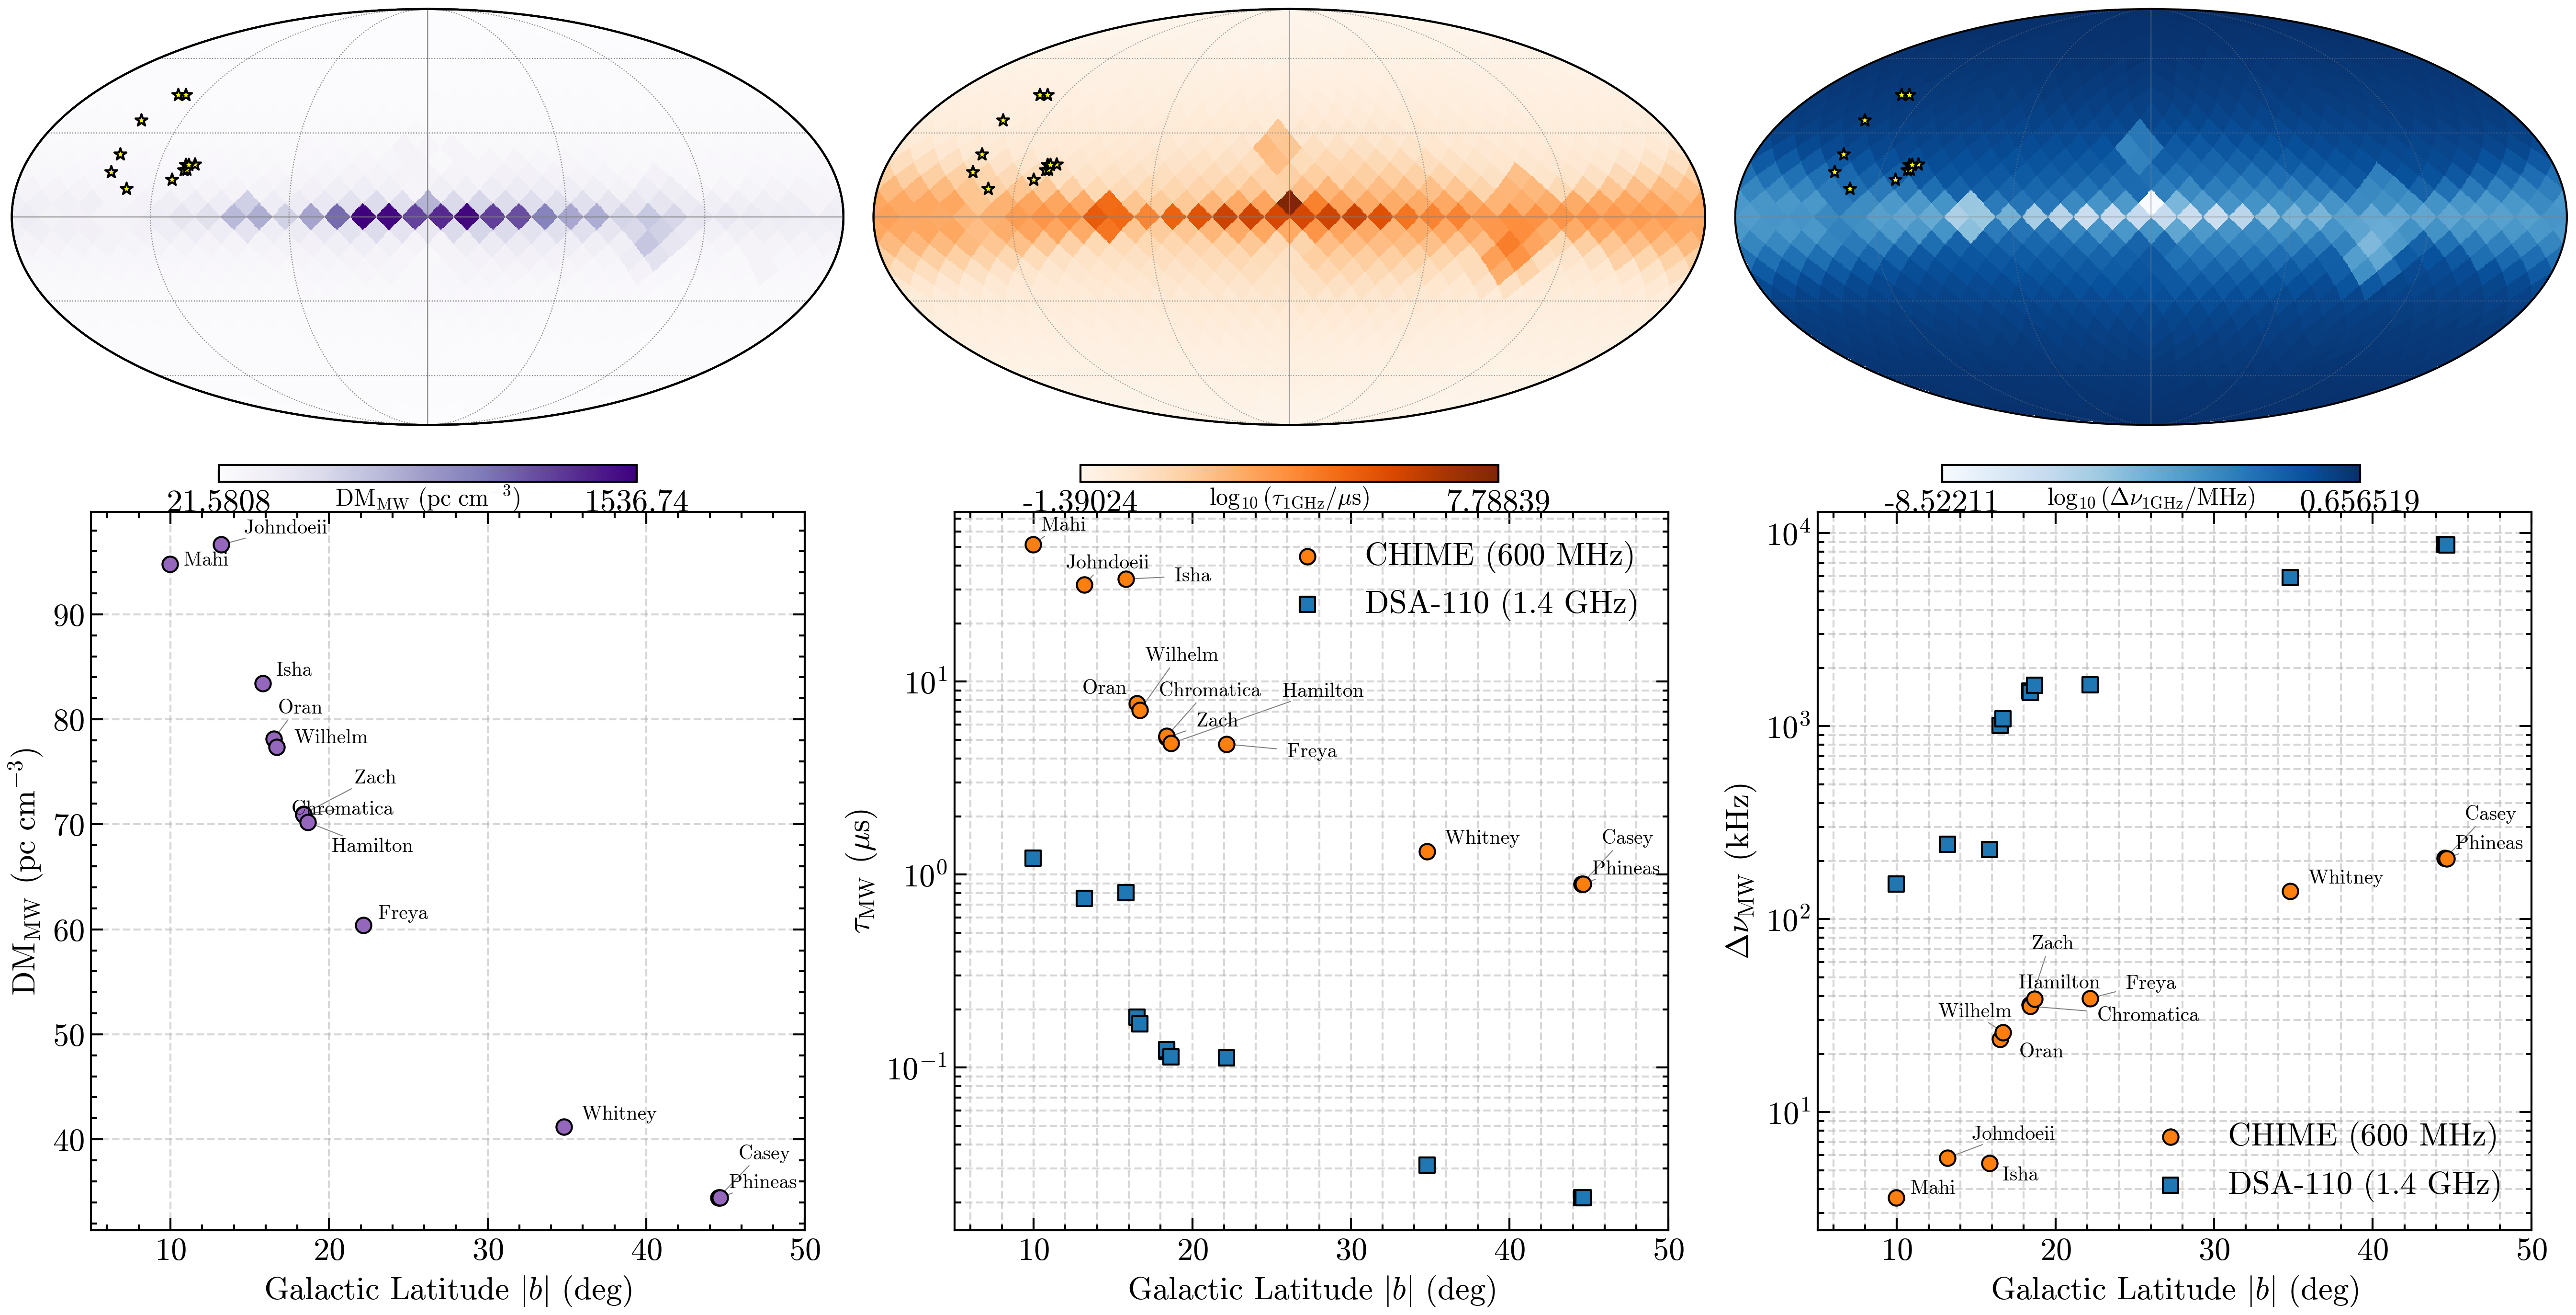
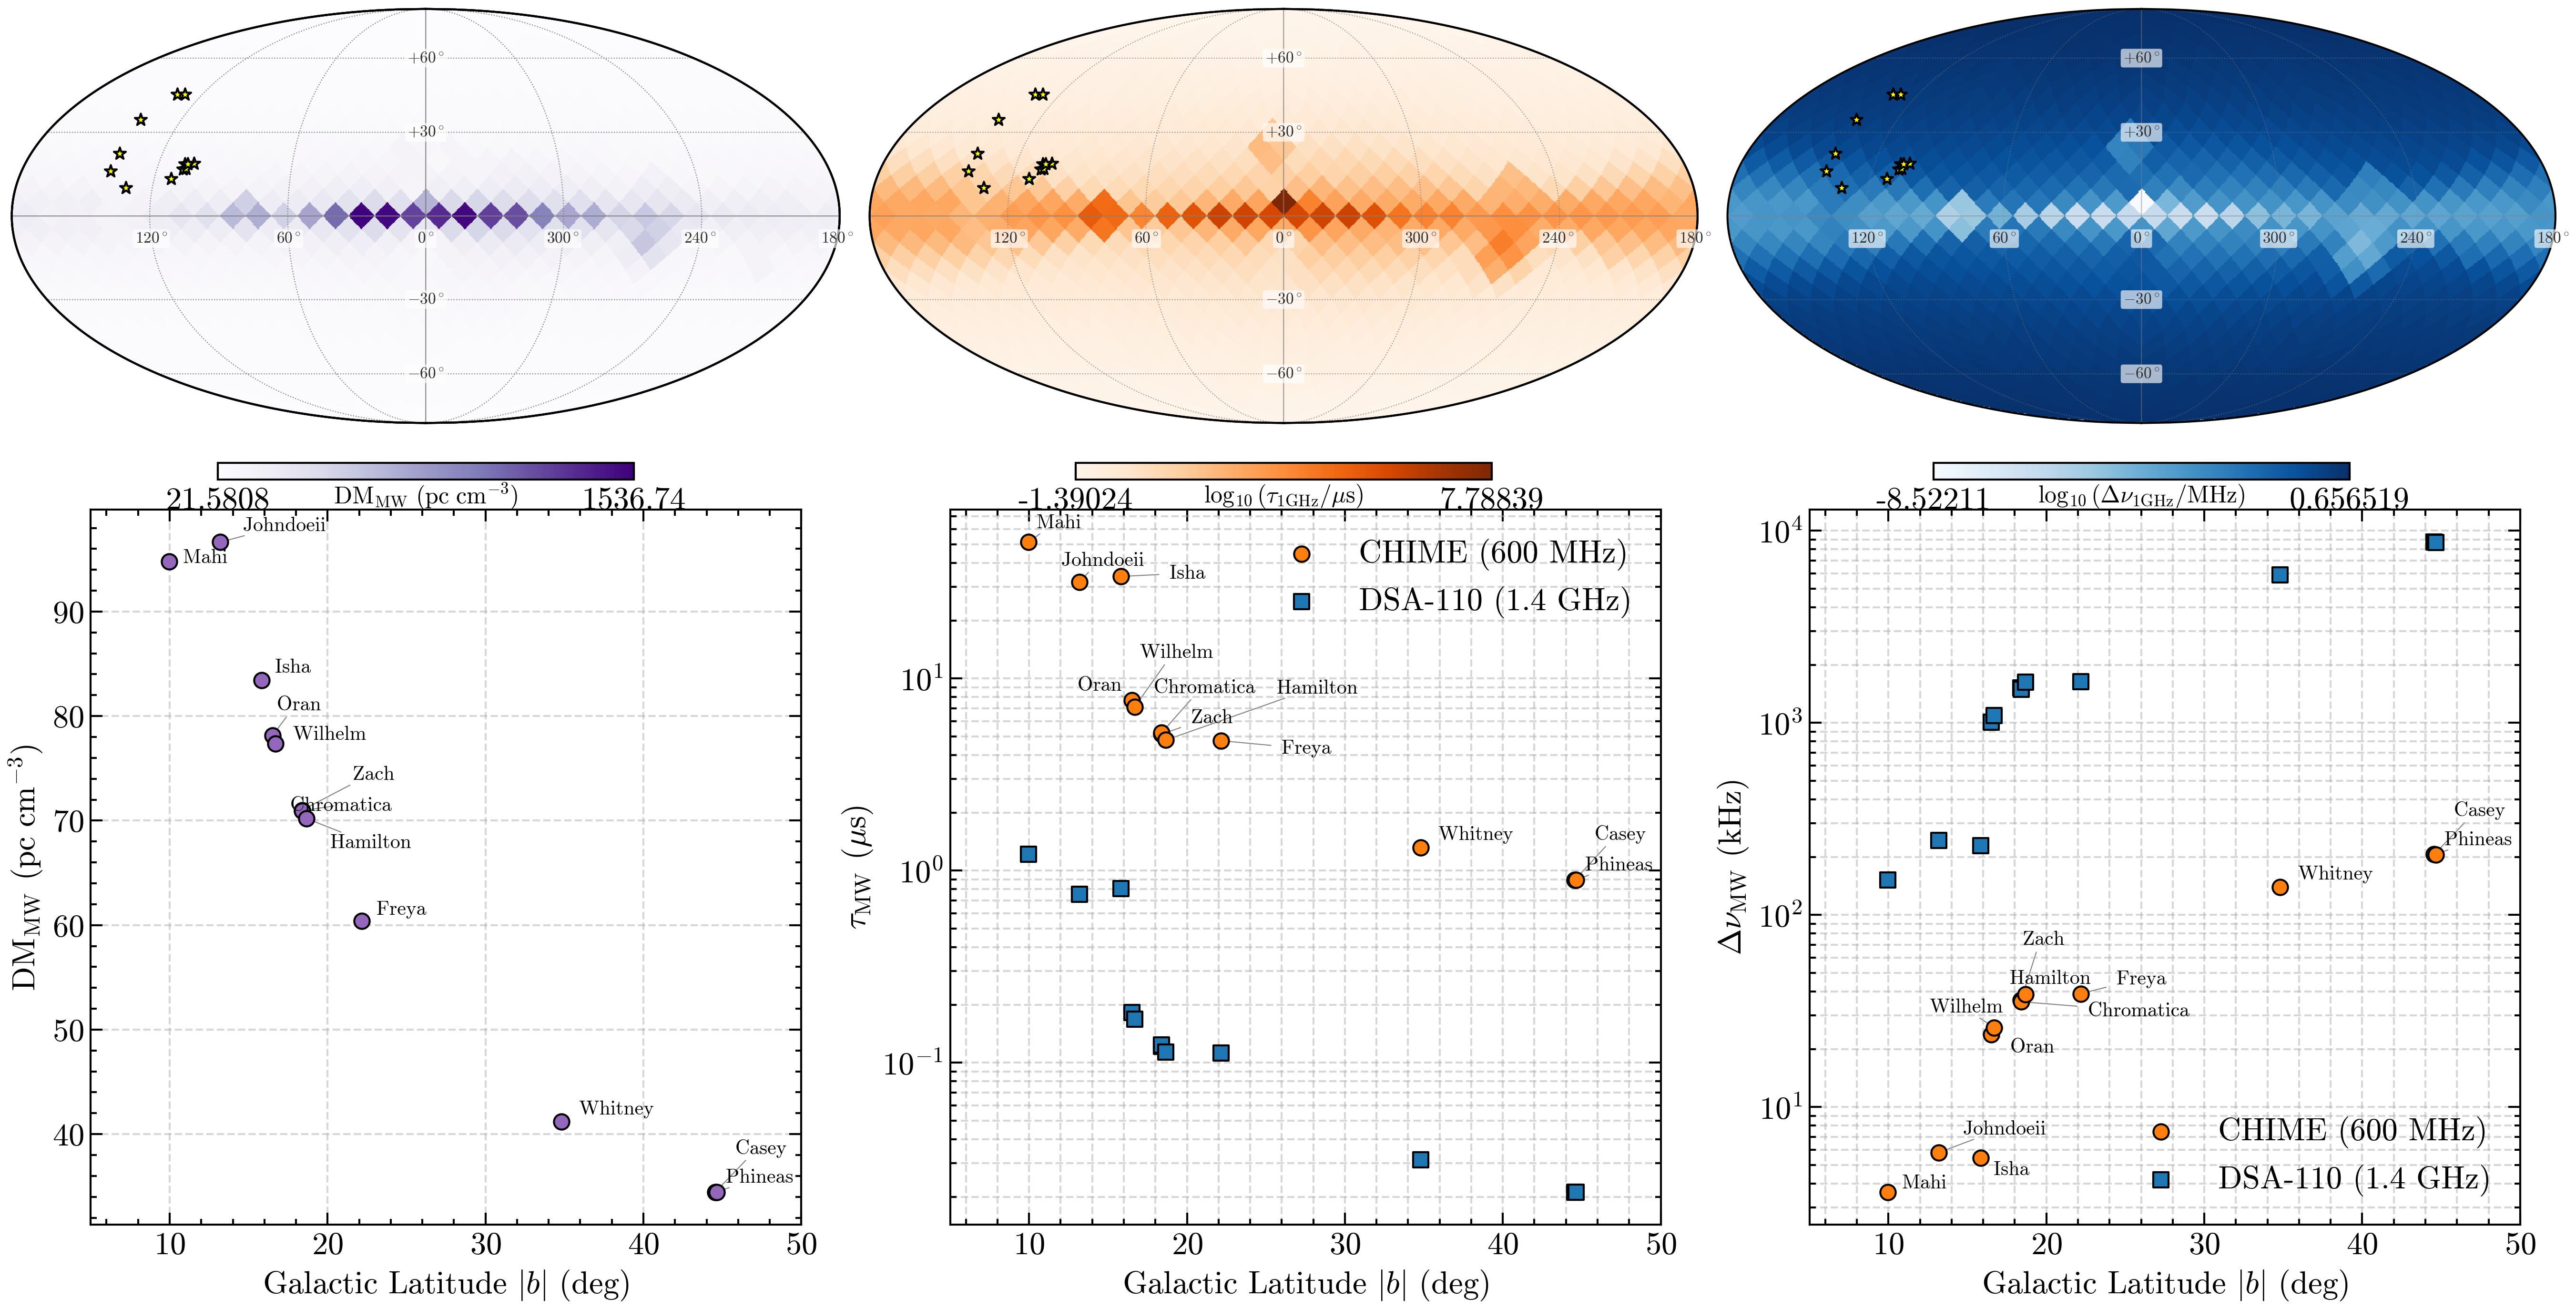
fig: label NE2025 Mollweide maps

diff --git a/docs/rse/board/readiness.html b/docs/rse/board/readiness.html
@@ -228,6 +228,18 @@
 <div class="card">
 <!-- JOURNAL:BEGIN -->
 <ul class="journal">
+<li><span class="jts mono">07-07 08:06</span><span class="jagent">codex-gpt-5.5/Faber2026-codex</span><span class="jlane">repo</span><span class="jnote s-good">Added sparse degree labels to NE2025 all-sky Mollweide maps, regenerated figures, and copied PNG to Antigravity brain path.</span></li>
+<li><span class="jts mono">07-07 08:05</span><span class="jagent">codex-gpt-5.5/Faber2026-codex</span><span class="jlane">repo</span><span class="jnote s-now">User requested commit and push of everything not already on remote; inventorying parent, canonical FLITS, and pipeline submodule before staging.</span></li>
+<li><span class="jts mono">07-07 08:02</span><span class="jagent">codex-gpt-5.5/dm-power-2026-07-07</span><span class="jlane">V6</span><span class="jnote s-now">switching fine-grid DM-power regeneration from local machine to h17 after local run was interrupted</span></li>
+<li><span class="jts mono">07-07 08:02</span><span class="jagent">codex-gpt-5.5/Faber2026-codex</span><span class="jlane">repo</span><span class="jnote s-ready">First ne2025 MW plot regeneration attempt used flits env but hit 300s timeout before saving; rerunning with longer timeout.</span></li>
+<li><span class="jts mono">07-07 07:58</span><span class="jagent">codex-gpt-5.5/Faber2026-codex</span><span class="jlane">V·P0</span><span class="jnote s-good">Pushed dsa110-FLITS commit a78d64dc to origin/main with DR9 photo-z prototype, replay aggregator, docs, and tests; parent Faber2026 still has unrelated dirty manuscript/log/pipeline/NE2025 paths classified in /tmp/faber2026-closeout-packet-20260707-foreground.json.</span></li>
+<li><span class="jts mono">07-07 07:55</span><span class="jagent">codex-gpt-5.5/dm-power-2026-07-07</span><span class="jlane">V6</span><span class="jnote s-now">addressing DM-power concerns: coarse trial spacing and missing error estimate for diagnostic curve maxima</span></li>
+<li><span class="jts mono">07-07 07:54</span><span class="jagent">codex-gpt-5.5/Faber2026-codex</span><span class="jlane">repo</span><span class="jnote s-now">Starting all-sky Mollweide degree-label update for ne2025 MW properties script.</span></li>
+<li><span class="jts mono">07-07 07:54</span><span class="jagent">cursor-composer</span><span class="jlane">repo</span><span class="jnote s-now">Dispatch Fable 5 band-label design review for codetection figures</span></li>
+<li><span class="jts mono">07-07 07:53</span><span class="jagent">codex-gpt-5.5/Faber2026-codex</span><span class="jlane">V·P0</span><span class="jnote s-ready">Implemented opt-in FLITS DR9 9.1 photo-z sweep engine plus replay aggregation script/tests in canonical dsa110-FLITS clone; focused pytest and ruff passed before closeout.</span></li>
+<li><span class="jts mono">07-07 07:52</span><span class="jagent">codex-gpt-5.5/Faber2026-codex</span><span class="jlane">V·P0</span><span class="jnote s-ready">FLITS replay aggregation produced 12-sightline combined outputs under dsa110-FLITS scratch/revalidation-foreground-20260707/combined; current DR8 replay has 21 candidates and only 1 &lt;=10 arcsec match to current 49-row registry.</span></li>
+<li><span class="jts mono">07-07 07:50</span><span class="jagent">cursor-composer/codetection-fix</span><span class="jlane">ms</span><span class="jnote s-good">Hatch zorder below inward ticks on waterfall/spectrum panels; regen 12/12</span></li>
+<li><span class="jts mono">07-07 07:46</span><span class="jagent">codex-gpt-5.5/Faber2026-codex</span><span class="jlane">V·P0</span><span class="jnote s-now">Resuming from handoff /var/folders/8s/v8lmbgcx6d73pbwjmbf198d80000gn/T/Faber2026-handoff-2026-07-07.md; checking foreground live search and dirty state before new edits.</span></li>
 <li><span class="jts mono">07-07 07:45</span><span class="jagent">antigravity-gemini/session-2026-07-07</span><span class="jlane">repo</span><span class="jnote s-good">added graticule coordinate grid lines to all-sky maps</span></li>
 <li><span class="jts mono">07-07 07:43</span><span class="jagent">codex-gpt-5.5/dm-power-2026-07-07</span><span class="jlane">V6</span><span class="jnote s-good">moved regenerated DM-power contact sheet into docs/rse/specs/dm-power-contact-sheet.png</span></li>
 <li><span class="jts mono">07-07 07:42</span><span class="jagent">codex-gpt-5.5/dm-power-2026-07-07</span><span class="jlane">V6</span><span class="jnote s-now">moving DM-power contact sheet from /tmp into repo artifact path</span></li>
@@ -236,18 +248,6 @@
 <li><span class="jts mono">07-07 07:39</span><span class="jagent">codex-gpt-5.5/dm-power-2026-07-07</span><span class="jlane">V6</span><span class="jnote s-good">fixed DM-power figure marker bug: dotted lines now mark the plotted global score-curve maximum; per-bin candidate retained separately</span></li>
 <li><span class="jts mono">07-07 07:36</span><span class="jagent">codex-gpt-5.5/dm-power-2026-07-07</span><span class="jlane">V6</span><span class="jnote s-now">fixing DM-power figure bug: dotted diagnostic line was per-bin candidate, not maximum of plotted global score curve</span></li>
 <li><span class="jts mono">07-07 07:32</span><span class="jagent">codex-gpt-5.5/dm-power-2026-07-07</span><span class="jlane">V6</span><span class="jnote s-ready">showing regenerated DM-power diagnostic candidate figures; graphify-out files confirmed user-generated</span></li>
-<li><span class="jts mono">07-07 07:31</span><span class="jagent">antigravity-gemini/session-2026-07-07</span><span class="jlane">repo</span><span class="jnote s-good">updated specs and artifacts with 2x3 visualization maps and captions</span></li>
-<li><span class="jts mono">07-07 07:30</span><span class="jagent">cursor-composer/codetection-fix</span><span class="jlane">ms</span><span class="jnote s-good">TOA cube-frame shift verified 12/12 peak_diff=measured_offset_ms; NaN colormap fix; prototypes regen</span></li>
-<li><span class="jts mono">07-07 07:28</span><span class="jagent">codex-gpt-5.5/dm-power-2026-07-07</span><span class="jlane">V6</span><span class="jnote s-good">fixed DM-power artifact semantics: removed misleading accepted/unconstrained labels for real batch, regenerated 24 candidate figures/memo, verified 20 tests + ruff</span></li>
-<li><span class="jts mono">07-07 07:28</span><span class="jagent">claude-code</span><span class="jlane">repo-search</span><span class="jnote s-good">graphify knowledge graph complete: 9890 nodes / 13922 edges / 923 communities (45 named) from 992 files. Outputs in graphify-out/ (graph.json, GRAPH_REPORT.md, graph.html). Hygiene: gitignored graphify-out/ + untracked 561 files a prior run accidentally committed (scratch dotfiles + AST cache); staged, not committed. Separate lanes preserved.</span></li>
-<li><span class="jts mono">07-07 07:26</span><span class="jagent">cursor-composer/codetection-fix</span><span class="jlane">ms</span><span class="jnote s-now">TOA cube-frame shift + NaN colormap fix; regen 12/12 prototypes</span></li>
-<li><span class="jts mono">07-07 07:22</span><span class="jagent">cursor-composer</span><span class="jlane">repo</span><span class="jnote s-good">Fable v2 codetection review: padding fixed, NaN/hatch broke 6/12 waterfalls</span></li>
-<li><span class="jts mono">07-07 07:21</span><span class="jagent">codex-gpt-5.5/dm-power-2026-07-07</span><span class="jlane">V6</span><span class="jnote s-now">fixing DM-power acceptance bug: remove misleading peak_snr binary gate and regenerate diagnostic artifacts</span></li>
-<li><span class="jts mono">07-07 07:18</span><span class="jagent">claude-fable</span><span class="jlane">upchan-batch2</span><span class="jnote s-now">Derived U tiers for remaining 6 sightlines (NE2025 floors reproduce batch-1 exactly): zach/chromatica/wilhelm U=64, oran U=128, hamilton U=64 + johndoeII U=512 in single-block mode (recoverable:False, W*Dnu_d~10-12). Extended TARGETS in h17 upchannelize_chime.py (backup .bak-pre-batch2-20260707), launched batch via run_batch2_20260707.sh in chimefrb/baseband-analysis docker; time0 metadata extraction appended per burst.</span></li>
-<li><span class="jts mono">07-07 07:17</span><span class="jagent">cursor-composer</span><span class="jlane">repo</span><span class="jnote s-now">Follow-up Claude Fable 5 review of codetection prototypes post-Codex must-fix</span></li>
-<li><span class="jts mono">07-07 07:15</span><span class="jagent">codex-gpt-5.5/dm-power-2026-07-07</span><span class="jlane">V6</span><span class="jnote s-ready">diagnosed DM-power acceptance issue: current peak_snr quality gate disagrees with independent CHIME DM confidence and DSA S/N; results should be treated as invalid diagnostic output</span></li>
-<li><span class="jts mono">07-07 07:14</span><span class="jagent">claude-code</span><span class="jlane">repo-search</span><span class="jnote s-now">graphify doc extraction: 10/16 chunks done (~600 nodes so far); awaiting 6 agents, then merge + cluster + report</span></li>
-<li><span class="jts mono">07-07 07:13</span><span class="jagent">codex-gpt-5.5/dm-power-2026-07-07</span><span class="jlane">V6</span><span class="jnote s-now">investigating suspected DM-power acceptance/scoring bug: constrained flag appears anti-correlated with burst S/N</span></li>
 </ul>
 <!-- JOURNAL:END -->
 </div>

diff --git a/scripts/plot_ne2025_mw_properties.py b/scripts/plot_ne2025_mw_properties.py
@@ -22,6 +22,37 @@ if rc_path.exists():
 import healpy as hp
 from mwprop.nemod.NE2025 import ne2025
 
+
+def add_mollweide_degree_labels():
+    label_style = dict(
+        fontsize=8,
+        color="0.18",
+        ha="center",
+        va="center",
+        bbox=dict(boxstyle="round,pad=0.15", fc="white", ec="none", alpha=0.65),
+    )
+
+    for lon in [0, 60, 120, 180, 240, 300]:
+        hp.projtext(
+            lon,
+            -8,
+            rf"${lon}^\circ$",
+            lonlat=True,
+            zorder=20,
+            **label_style,
+        )
+
+    for lat in [-60, -30, 30, 60]:
+        hp.projtext(
+            0,
+            lat,
+            rf"${lat:+d}^\circ$",
+            lonlat=True,
+            zorder=20,
+            **label_style,
+        )
+
+
 def run_pixel(args):
     gl, gb = args
     Dk, Dv, Du, Dd = ne2025(ldeg=gl, bdeg=gb, dmd=30.0, ndir=-1, classic=False, dmd_only=False, do_analysis=False, verbose=False)
@@ -78,6 +109,7 @@ if __name__ == '__main__':
         unit=r"$\mathrm{DM}_{\mathrm{MW}}\ (\mathrm{pc\ cm}^{-3})$"
     )
     hp.graticule(dpar=30, dmer=60, color="gray", lw=0.5, alpha=0.5)
+    add_mollweide_degree_labels()
     hp.projscatter(
         df["l_deg"],
         df["b_deg"],
@@ -102,6 +134,7 @@ if __name__ == '__main__':
         unit=r"$\log_{10}(\tau_{1\mathrm{GHz}} / \mu\mathrm{s})$"
     )
     hp.graticule(dpar=30, dmer=60, color="gray", lw=0.5, alpha=0.5)
+    add_mollweide_degree_labels()
     hp.projscatter(
         df["l_deg"],
         df["b_deg"],
@@ -126,6 +159,7 @@ if __name__ == '__main__':
         unit=r"$\log_{10}(\Delta\nu_{1\mathrm{GHz}} / \mathrm{MHz})$"
     )
     hp.graticule(dpar=30, dmer=60, color="gray", lw=0.5, alpha=0.5)
+    add_mollweide_degree_labels()
     hp.projscatter(
         df["l_deg"],
         df["b_deg"],